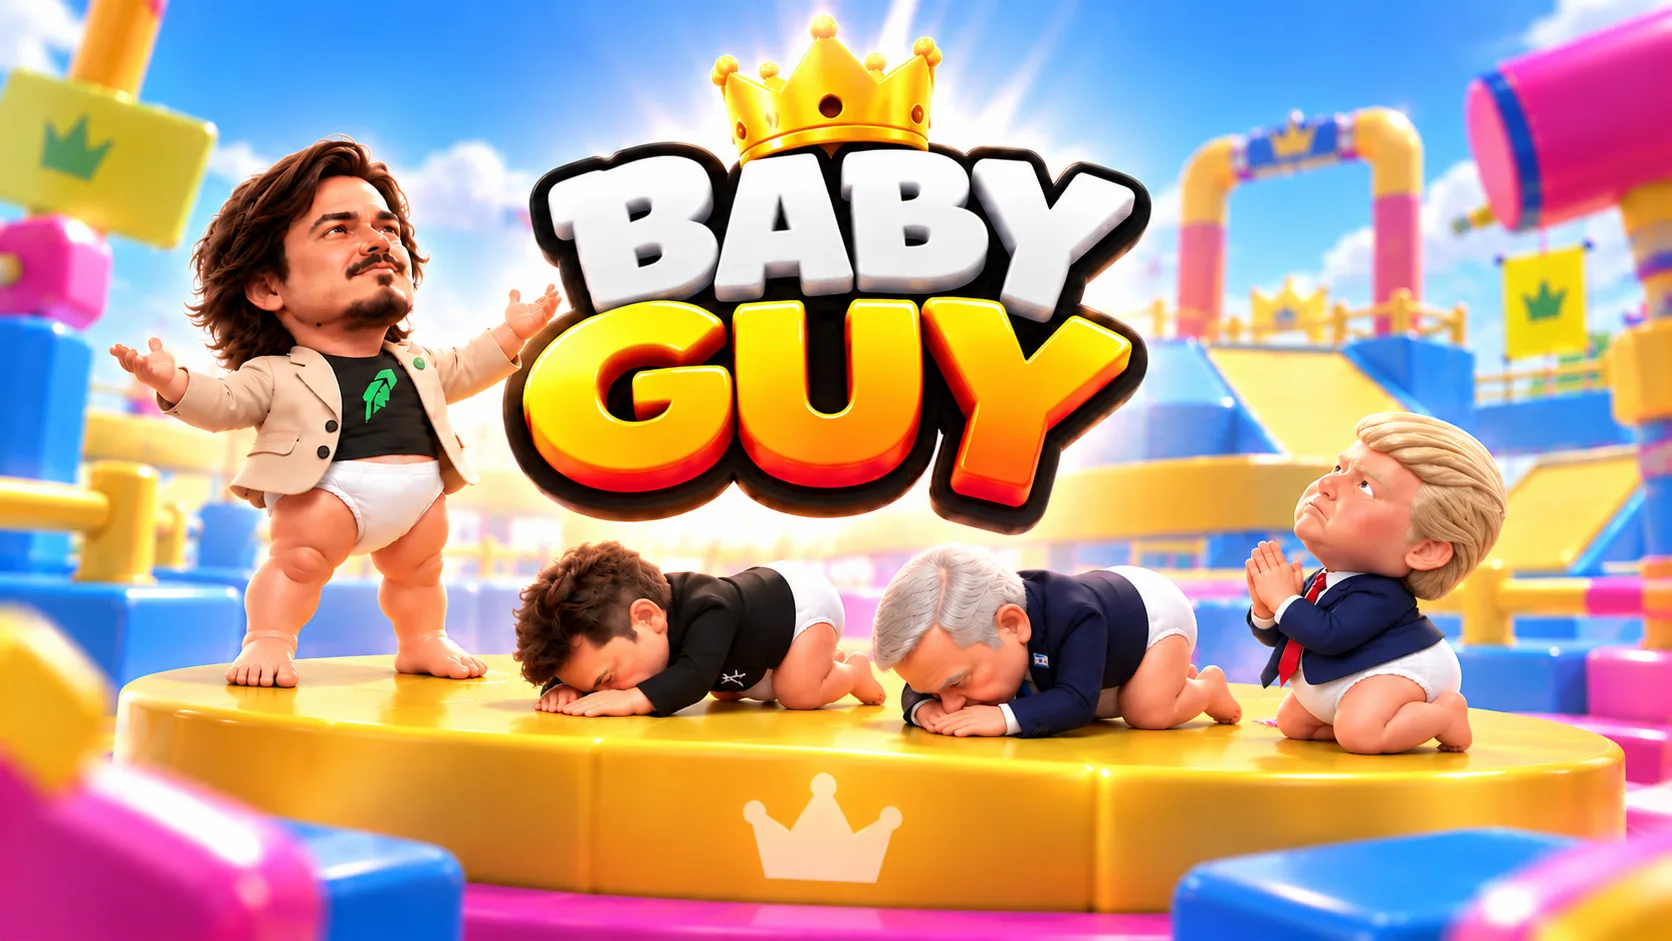
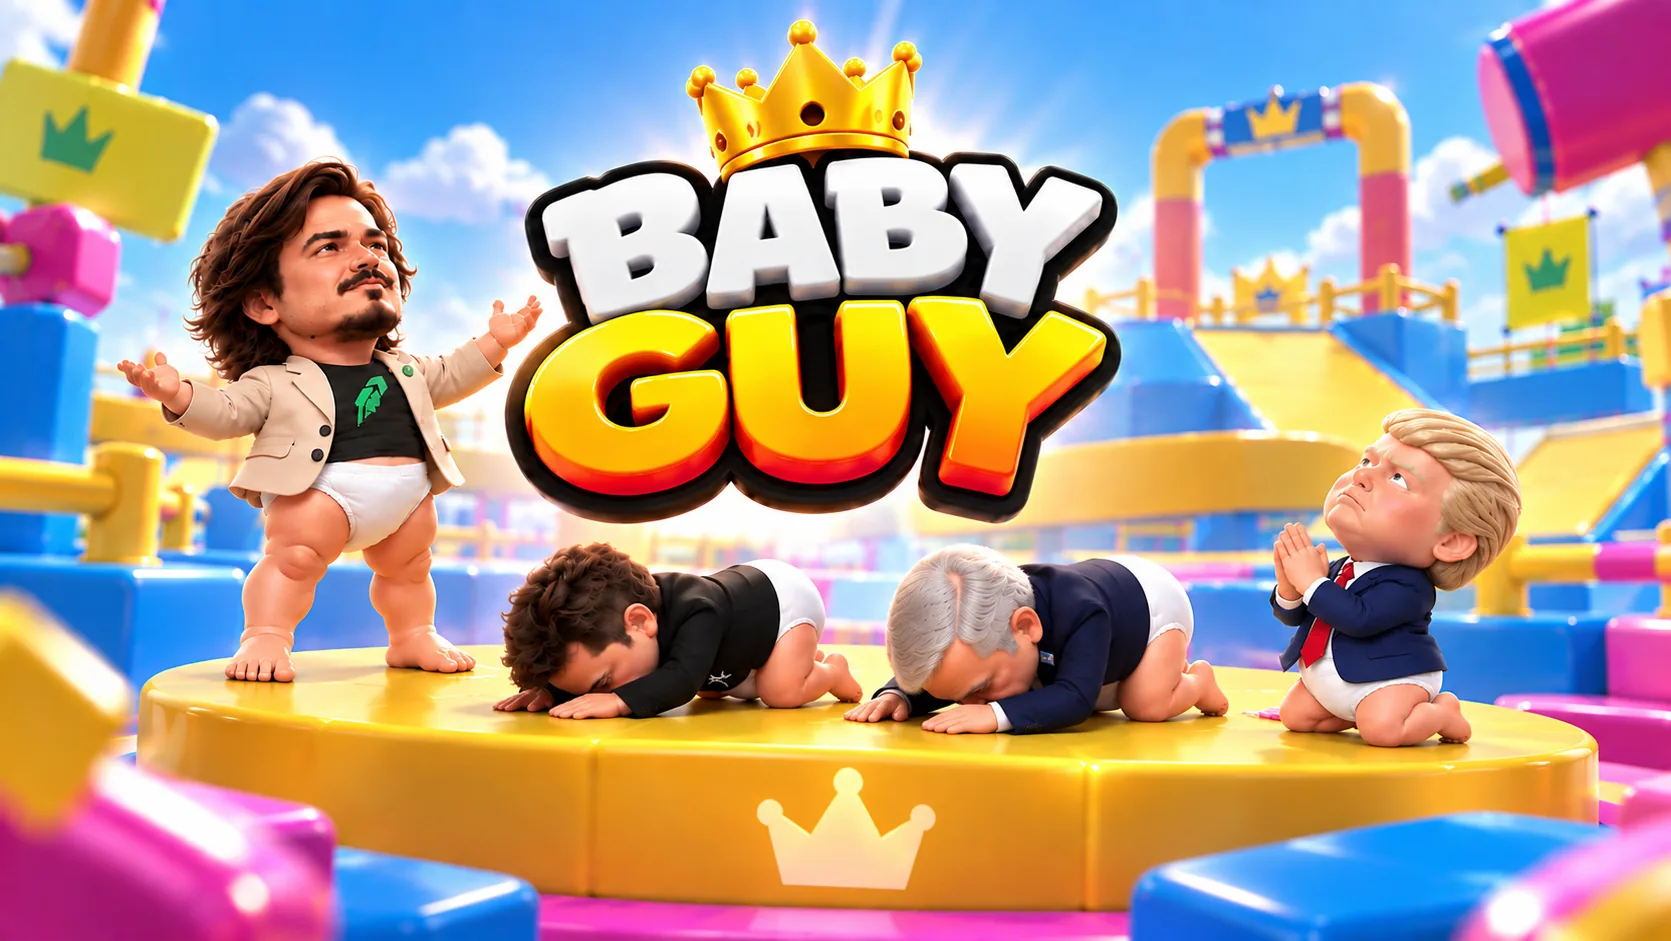
feat(site): l'illustration du 6 septembre remplace celle de la veille
Meme scene, cadrage recule : le logo est plus petit et plus haut, l'estrade
plus large et plus basse. 1,79 Mo de PNG -> 128 Ko de WebP, plus le JPEG a
part pour l'apercu social.

Le traitement pose hier tient sans retouche — la flaque elliptique derriere
la colonne de texte et la bande mobile sous 720 px. Verifie en image aux
deux tailles avant de pousser, parce que ce sont deux reglages qui dependent
de la COMPOSITION et pas seulement du fichier : un cadrage plus serre aurait
demande de les reprendre.

La hauteur de la bande mobile passe de 56.28vw a 56.31vw : le ratio est
941/1671 et non 941/1672. Trois centiemes de vw, un dixieme de pixel sur un
telephone, invisible — mais ce nombre est une MESURE de l'image, et une
mesure fausse devient un chiffre magique que la main suivante n'osera plus
toucher.

Claude-Session: https://claude.ai/code/session_01R7graDPiQ8gFooS5sMi3fV

diff --git a/README.md b/README.md
@@ -82,7 +82,7 @@ public/icons/robinhood-plume*.png   the feather, 3 variants (black / lime / whit
 public/videos/trailer.mp4      27 s, 1600×900, 7.2 MB (re-encoded from V1trailer-sous-titre.mp4)
 public/posters/trailer.jpg     frame at 6 s
 public/posters/jeu-course.jpg  poster for the gameplay loop
-public/img/hero-bg.webp        hero key art, 1672×941, 120 kB (from a 1.76 MB PNG)
+public/img/hero-bg.webp        hero key art, 1671×941, 128 kB (from a 1.79 MB PNG)
 public/img/hero-og.jpg         1200×675 JPEG, the og:image — several scrapers, X included,
                                handle WebP poorly, and X is the only account we have open
 public/img/logo.png            official logo, grey background removed
@@ -117,7 +117,7 @@ treatment has to respect in two ways:
 - **Under 720 px the image stops filling and becomes a band.** In `cover`, a 16:9 image
   behind a phone-shaped hero shows only the middle ~26 %: the logo clipped on both sides
   and not one character left. It is now laid full width at the top (`100% auto`, height =
-  56.28vw = 941/1672) with the copy below it on violet. Change the art's aspect ratio and
+  56.31vw = 941/1671) with the copy below it on violet. Change the art's aspect ratio and
   that number has to change with it.
 
 ## A trap this repo fell into once
